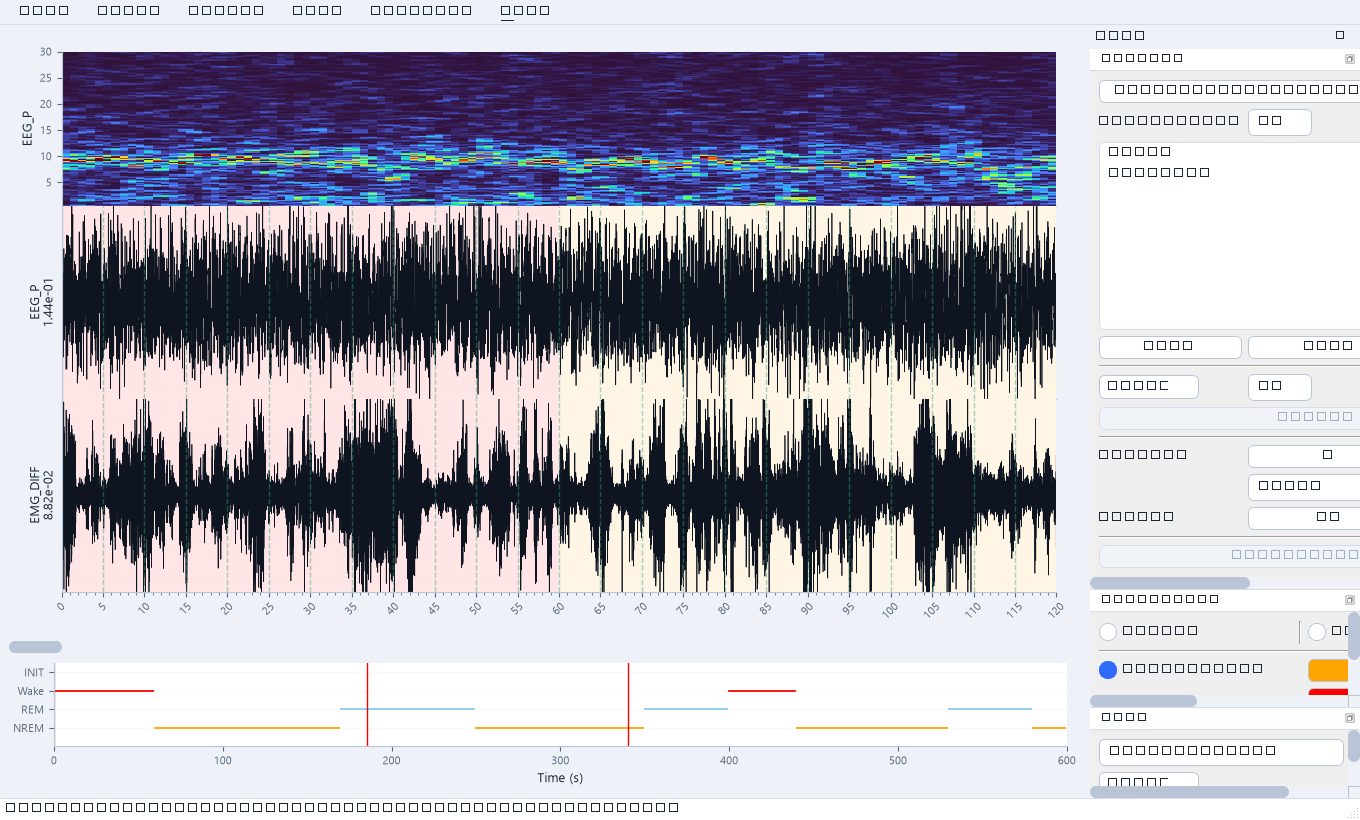
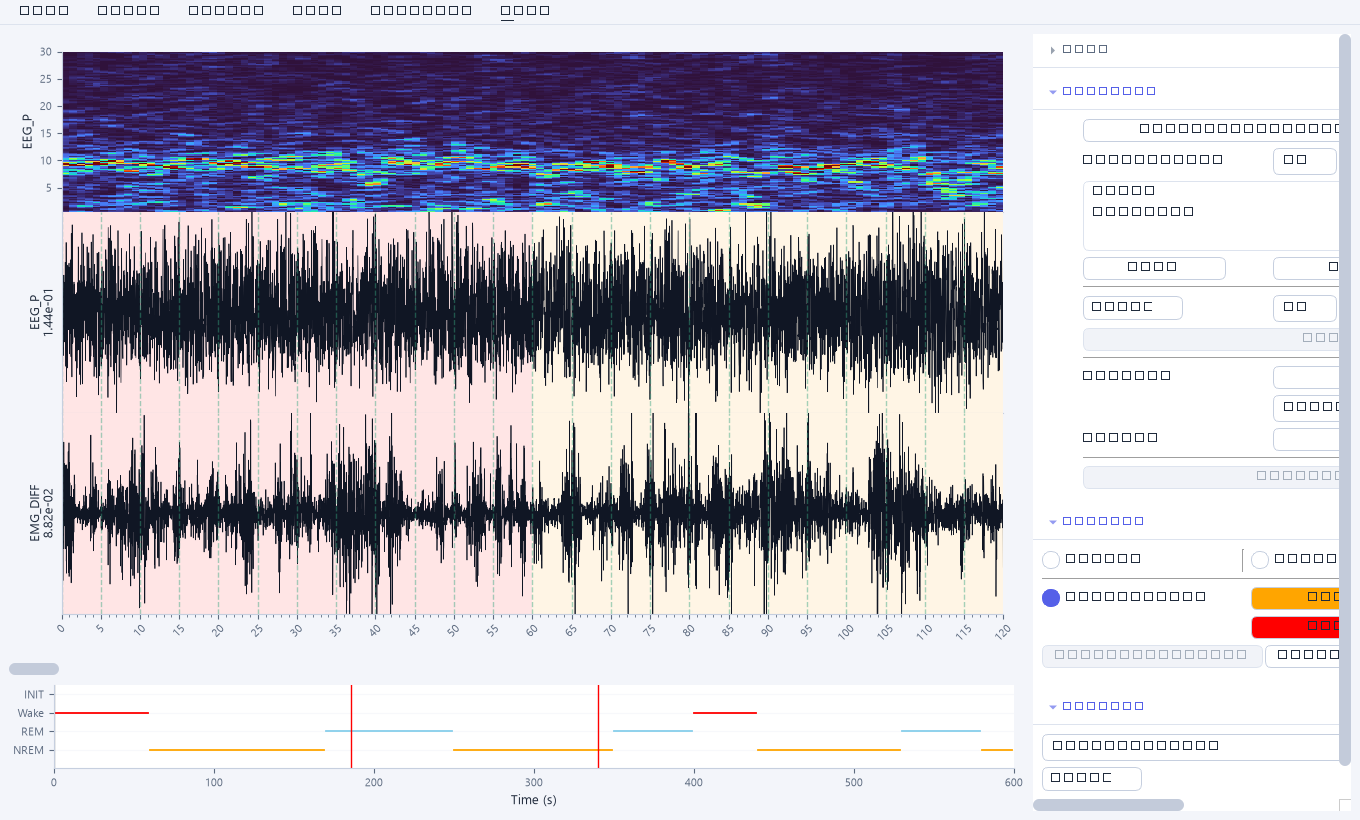
docs: user guide + changelog for the sidebar redesign, new previews

diff --git a/docs/user_guide.md b/docs/user_guide.md
@@ -14,7 +14,8 @@ The main window follows the classic scoring workflow:
      (LightGBM, Transformer)
    * **Result** — State Spectral, Transfer Result
    * **Settings** — the in-application settings dialog (own menu)
-   * **View** — show/hide the Meta, Channel, Annotation and Time docks
+   * **View** — expand/collapse the Data, Channels, Scoring and Display
+     sidebar sections
    * **Help** — About
    The window starts **maximized**, so the signal area uses all the
    available width (no horizontal scrolling).
@@ -25,17 +26,18 @@ The main window follows the classic scoring workflow:
      the figure fills the whole signal widget, the panels are tightly
      packed, and everything adapts when you resize the window,
    * the **hypnogram** at the bottom, with the **scroll bar** below.
-3. **Tool area (right)** — the Meta, Channel, Annotation and Time docks
-   with balanced, compact sizes. The **Meta** dock starts **stacked**
-   (collapsed to its title bar; click the ▼/▲ button to expand it), and
-   the others have sensible minimum heights so they never crowd the
-   signal area.
+3. **Tool area (right)** — one tidy **sidebar** with four collapsible
+   sections: **Data** (paths, acquisition time; starts collapsed), the
+   **Channels** list, **Scoring** and **Display**. Click a section header
+   to expand/collapse it; the panel keeps a fixed width so the signal
+   area stays dominant.
 
 Usability details:
 
 * The **mouse wheel** flips the signal window **only** when hovering over
-  the signal or hypnogram panels; over docks, tools or editors it never
-  moves the signal, and it never changes spin/combo/date values either.
+  the signal or hypnogram panels; over the sidebar, tools or editors it
+  never moves the signal, and it never changes spin/combo/date values
+  either.
 * Long display windows (30 min / 1 h) are **automatically downsampled**
   for fast redraws, and the x-axis tick density is reduced automatically.
 * **Add Line** supports relative lines: enter a number N, choose
@@ -117,7 +119,7 @@ Navigation:
 * `Up`/`Down` — previous/next 5 s epoch,
 * mouse wheel — page up/down.
 
-### Channel dock
+### Channel list (Channels section)
 
 * **▲ / ▼ arrow buttons** sit **horizontally in the same row as the
   spectrogram percentile box** (compact, 24×24) and move the selected
@@ -126,21 +128,21 @@ Navigation:
 * To **rename** a channel, double-click its name in the list.
 * **Show / Hide / Delete** — control which channels are displayed; delete
   removes them from the in-memory data.
-* The right-side docks are kept **narrow and compact** (smaller minimum
-  widths, shorter labels) so the signal area stays dominant.
+* The sidebar keeps a **fixed, compact width** so the signal area stays
+  dominant.
 
 ### Hypnogram
 
-The per-second sleep state as a step plot. Click anywhere on it to jump
-to that time.
+The per-second sleep state as a colored step plot (one color per state).
+Click anywhere on it to jump to that time.
 
-## Tool docks
+## Right-hand sidebar
 
-### Meta dock
+### Data section
 
 Shows the data path, annotation path, and acquisition time.
 
-### Channel dock
+### Channels section
 
 * **Show / Hide / Delete** — control which channels are displayed; delete
   removes them from the in-memory data.
@@ -153,7 +155,7 @@ Shows the data path, annotation path, and acquisition time.
   (> 5 s) in the annotation area, opens the spectrum/spectrogram window
   for the selected channel.
 
-### Annotation dock
+### Scoring section
 
 Three scoring modes (radio buttons) plus the **Marker list** / **Start-End
 list** buttons which open a viewer of all already-labeled events:
@@ -176,13 +178,13 @@ Scoring itself works as before:
 * **Sleep state** — click twice to define an interval, then press one of
   the **state buttons** or the number key for that state (`1`–`9`, and
   `0` for state 10) to score it. The default has four states (1 NREM,
-  2 REM, 3 Wake, 4 Init) whose buttons live in the Annotation dock; add
+  2 REM, 3 Wake, 4 Init) whose buttons live in the Scoring section; add
   up to **10 states** in *Settings → Sleep states* and extra buttons
   appear below them, colored automatically.
 
 Right-click removes markers / start-end selections.
 
-### Time dock
+### Display section
 
 Jump to a specific time with the spin box or the date-time editor; choose
 the display duration from the combo box (30 s – 1 h) or a custom value
@@ -218,8 +220,8 @@ the display duration from the combo box (30 s – 1 h) or a custom value
 
 ### Help
 
-* **View** — check/uncheck to show or hide the Meta, Channel, Annotation
-  and Time docks (the Annotation and Time docks share one tabbed area).
+* **View** — check/uncheck to expand or collapse the Data, Channels,
+  Scoring and Display sidebar sections (same as clicking their headers).
 * **About** — version and update info.
 * **Settings** — opens the in-application settings dialog. Changes are
   **applied immediately** without restarting MiSleep:
@@ -230,7 +232,8 @@ the display duration from the combo box (30 s – 1 h) or a custom value
   * *Labels* — edit the marker and start-end label lists,
   * *Spectral* — default frequency range, FFT window length, nfft and
     Gaussian smoothing σ,
-  * *General* — state background transparency and the default open path.
+  * *General* — state background transparency, the **theme** (light/dark),
+    the **spectrogram colormap**, and the default open path.
   An **"Open file…"** button opens the raw configuration file in your
   system editor for advanced edits (changes then require a restart).
 
@@ -252,6 +255,7 @@ the display duration from the combo box (30 s – 1 h) or a custom value
 | `a` | append start-end label |
 | `s` | open spectrum/spectrogram window |
 | `1`–`6` | score the selected area with state 1–6 |
+| `Ctrl+Shift+T` | toggle the light / dark theme |
 | `Left` / `Right` | previous / next page |
 | `Up` / `Down` | previous / next 5 s epoch |
 | mouse wheel | page up / down |

diff --git a/CHANGELOG.md b/CHANGELOG.md
@@ -5,6 +5,28 @@ All notable changes to MiSleep are documented in this file.
 The format is based on [Keep a Changelog](https://keepachangelog.com/en/1.1.0/),
 and this project adheres to [Semantic Versioning](https://semver.org/spec/v2.0.0.html).
 
+## [Unreleased]
+
+### Changed
+
+- **GUI redesign**: the four right-side docks were replaced by one tidy
+  **sidebar** with collapsible sections (Data / Channels / Scoring /
+  Display); the bottom **status bar was removed**; all sizes are DPI-aware
+  (`pt`-based) with per-platform fonts, so the GUI scales cleanly on any
+  screen.
+- **Theme system**: light and dark themes driven by one palette that
+  styles the Qt widgets *and* the matplotlib canvases together; toggle
+  with `Ctrl+Shift+T` or *Settings → General → Theme* (persists in the
+  user config).
+- **Data presentation**: hypnogram is now colored per sleep state;
+  spectrogram colormap is configurable (default `turbo` instead of
+  `jet`); signal traces, grids and labels follow the active theme.
+- **Performance**: page flips are much faster — the whole-file
+  spectrogram is cached per channel (sliced per window), the hypnogram
+  base is cached and reused, signal axes are reused instead of recreated,
+  state backgrounds are drawn as cheap rectangles, and dense traces are
+  downsampled to 8k points.
+
 ## [0.3.0] — 2025
 
 This is a major restructuring of the project (previously *MiSleep_v2*).
